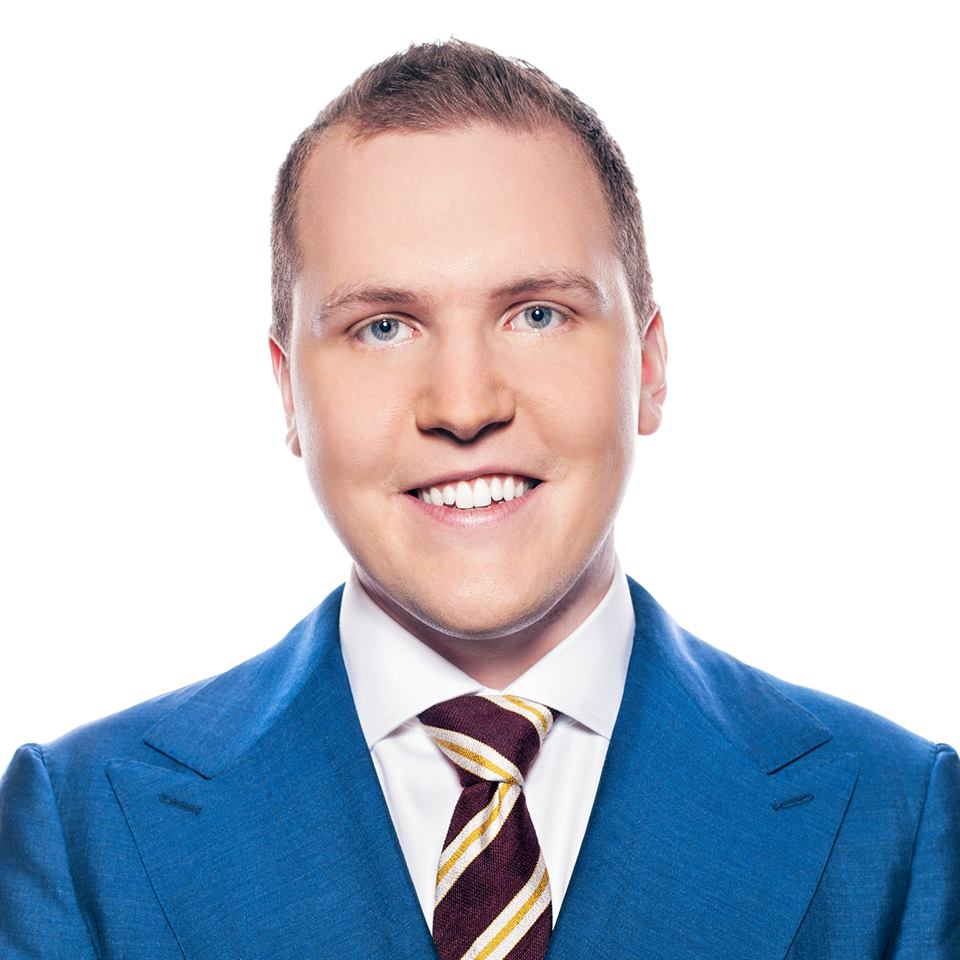
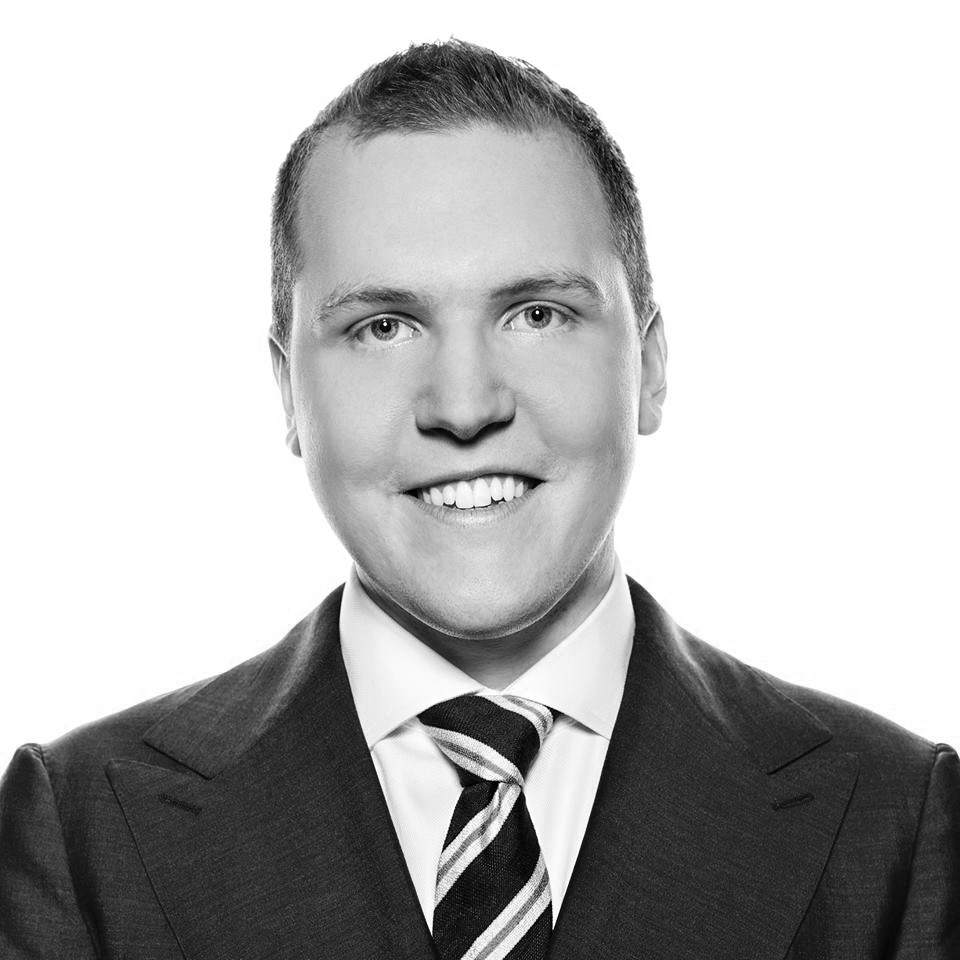
Added Updated Bios and photos

diff --git a/presenters.html b/presenters.html
@@ -181,47 +181,47 @@ description: The storytellers and feature presenters
 
   <div class="flex-container-presenters">
     <div class="speaker">
-      <div class="speaker-photo "></div>
+      <div class="speaker-photo max"></div>
       <h2>Max Seelemann</h2>
       <h4>Leizig, Germany</h4>
       <p>
-        Max is a co-founder and lead developer at The Soulmen, makers of the award-winning Ulysses. Max began is career as a developer in primary school and has been building ever since.
+        Max is a co-founder and lead developer at The Soulmen, makers of the award-winning writing app Ulysses. Max started programming when he was still in primary school, and he never stopped. His hobby turned into a passion and a business. When not working, he can be found with his kids and family, enjoying great food or traveling the world.
       </p>
     </div>
 
     <div class="speaker">
-      <div class="speaker-photo "></div>
+      <div class="speaker-photo stephen"></div>
       <h2>Stephen Coyle</h2>
       <h4>Belfast, Ireland</h4>
       <p>
-        Lorem ipsum dolor sit amet, consectetur adipisicing elit, sed do eiusmod tempor incididunt ut labore et dolore magna aliqua. Ut enim ad minim veniam, quis nostrud exercitation ullamco laboris nisi ut aliquip ex ea commodo consequat.
+        Stephen is a composer, videographer and developer. He's currently completing a PhD in composition, and has had several pieces premiered in Europe this year so far. He is also the creator of Tapt, a music app for iOS, and co-director of a film production company, QuothMe.
       </p>
     </div>
 
     <div class="speaker">
-      <div class="speaker-photo "></div>
+      <div class="speaker-photo clay"></div>
       <h2>Clay Smith</h2>
       <h4>Porto, Portugal</h4>
       <p>
-        Lorem ipsum dolor sit amet, consectetur adipisicing elit, sed do eiusmod tempor incididunt ut labore et dolore magna aliqua. Ut enim ad minim veniam, quis nostrud exercitation ullamco laboris nisi ut aliquip ex ea commodo consequat.
+        Clay Smith is the founder and lead developer at Akita. Originally from the US, Clay became an Irish Citizen in 2013. For the last few years, he has been traveling the world, working on a startup and dreaming up ways to "creatively bootstrap" a business.
       </p>
     </div>
 
     <div class="speaker">
-      <div class="speaker-photo "></div>
+      <div class="speaker-photo matt"></div>
       <h2>Matt Drozdzynski</h2>
       <h4>London, England</h4>
       <p>
-        Lorem ipsum dolor sit amet, consectetur adipisicing elit, sed do eiusmod tempor incididunt ut labore et dolore magna aliqua. Ut enim ad minim veniam, quis nostrud exercitation ullamco laboris nisi ut aliquip ex ea commodo consequat.
+        Matt is the founder and CEO of Pilot, an online platform that connects startups with design and engineering talent all around the world. Matt is an avid traveller and a  proponent of remote working and distributed company models.
       </p>
     </div>
 
     <div class="speaker">
-      <div class="speaker-photo "></div>
+      <div class="speaker-photo cian"></div>
       <h2>Cian Walsh</h2>
-      <h4>Cork, Ireland</h4>
+      <h4>Kinsale, Ireland</h4>
       <p>
-        Cian is a UX designer on a path away from screens. Working at a carpooling start-up, Cian realised that in order for people to be able to use an app safely while driving, they needed to do so without looking at the screen. He found a similar problem in the world of kayaking and marine sports.
+        Cian is the founder of Marine User Experience. He has spent nearly 20 years in design, a good chunk of which was illustrating icons for the likes of Omni Group, Apple, Cisco and others. A love for the water and infuriation with current marine products led him to his current focus. To build products that are waterproof but not human proof.
       </p>
     </div>
 
